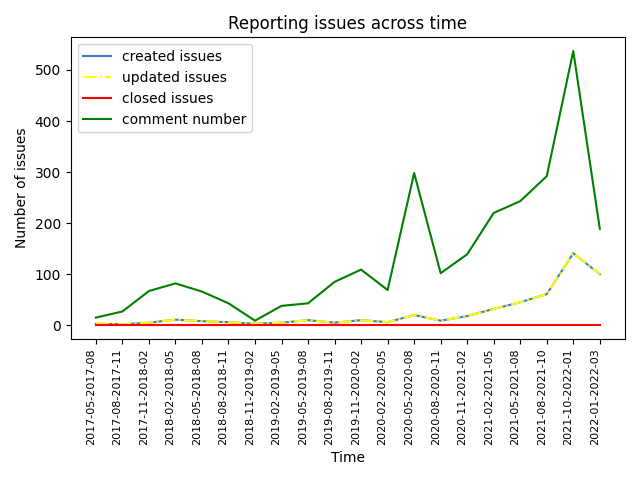
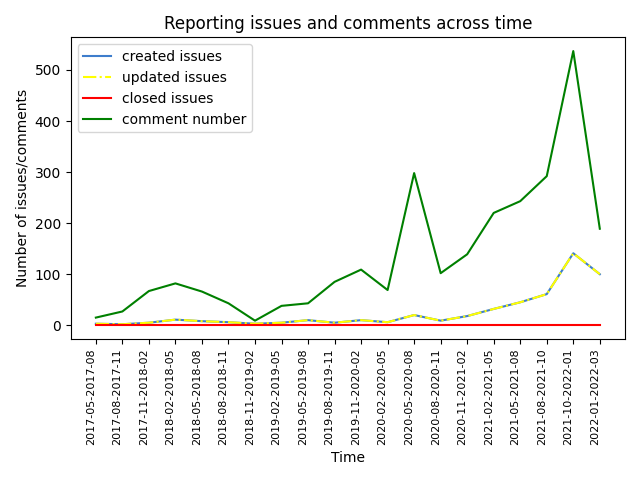
Updated: graphs labels

Changed region(s): [[0.0, 0.1875, 0.0625, 0.5938], [0.25, 0.0312, 0.8438, 0.0625]]

diff --git a/dataTreator/statTreatments.py b/dataTreator/statTreatments.py
@@ -161,9 +161,9 @@ axTimeSU.plot([j for j in dict_closed.keys()], [dict_closed[i] for i in dict_clo
               label="closed issues")
 axTimeSU.plot([j for j in dict_comment.keys()], [dict_comment[i] for i in dict_comment.keys()], color='green',
               label="comment number")
-axTimeSU.set_ylabel('Number of issues')
+axTimeSU.set_ylabel('Number of issues/comments')
 axTimeSU.set_xlabel('Time')
-axTimeSU.set_title('Reporting issues across time')
+axTimeSU.set_title('Reporting issues and comments across time')
 axTimeSU.set_xticks(np.arange(len(dictionnary)))
 axTimeSU.set_xticklabels(dictionnary.keys(), rotation=90, ha='right', fontsize=8)
 axTimeSU.legend()
